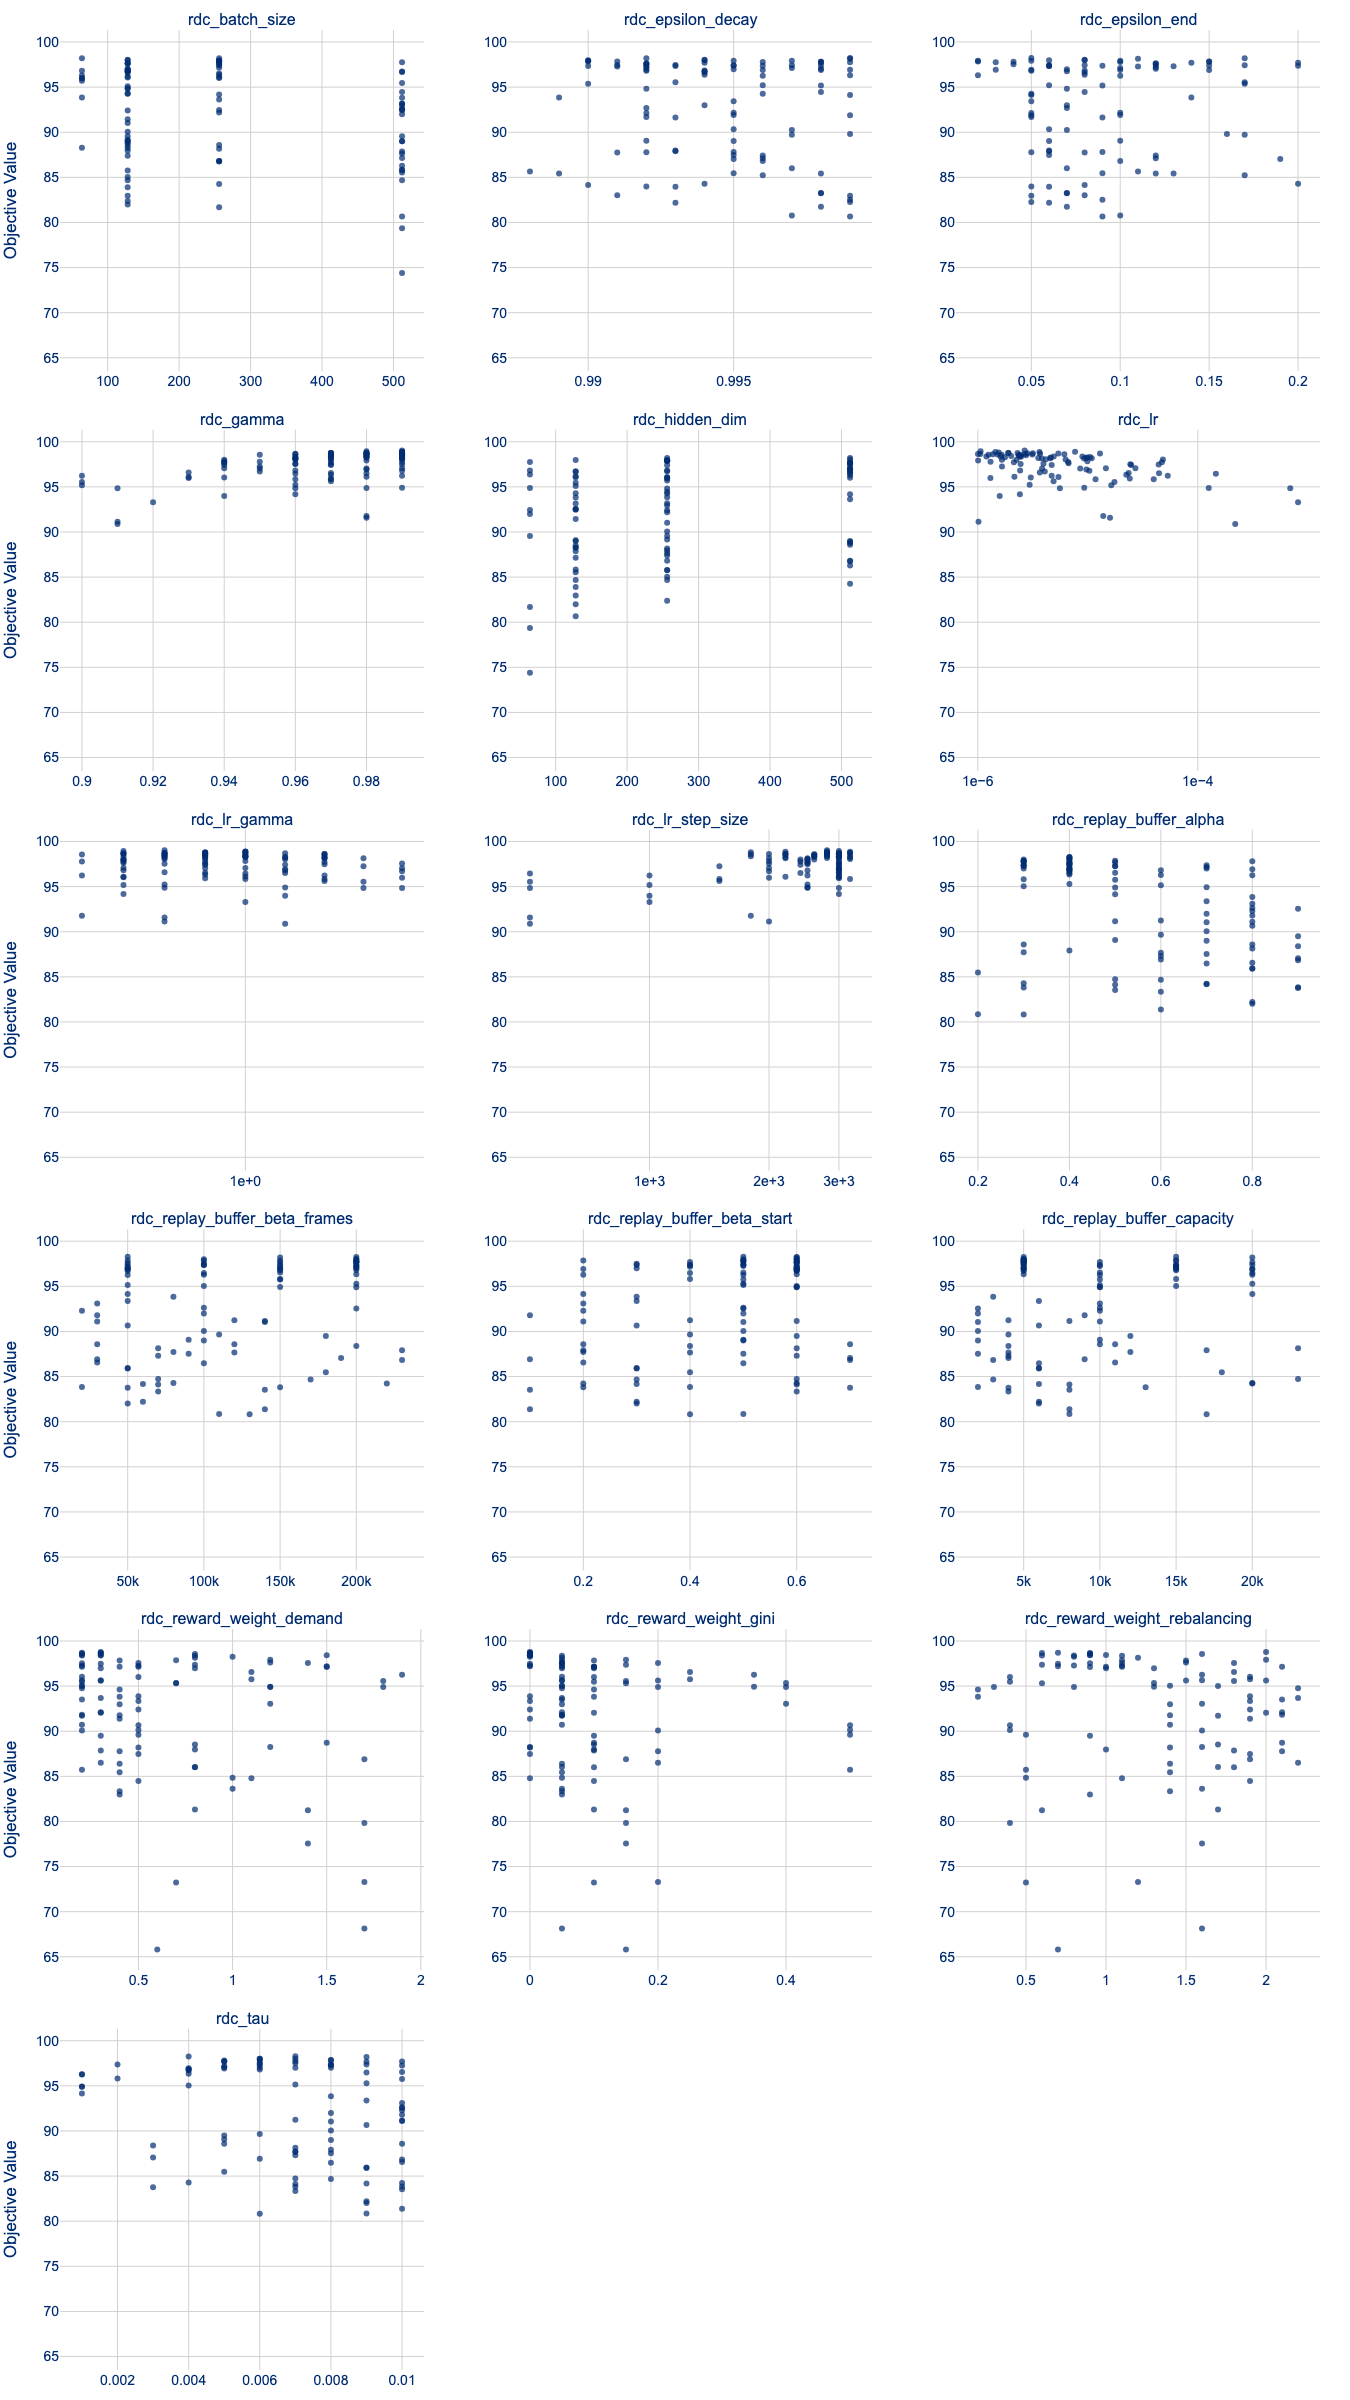
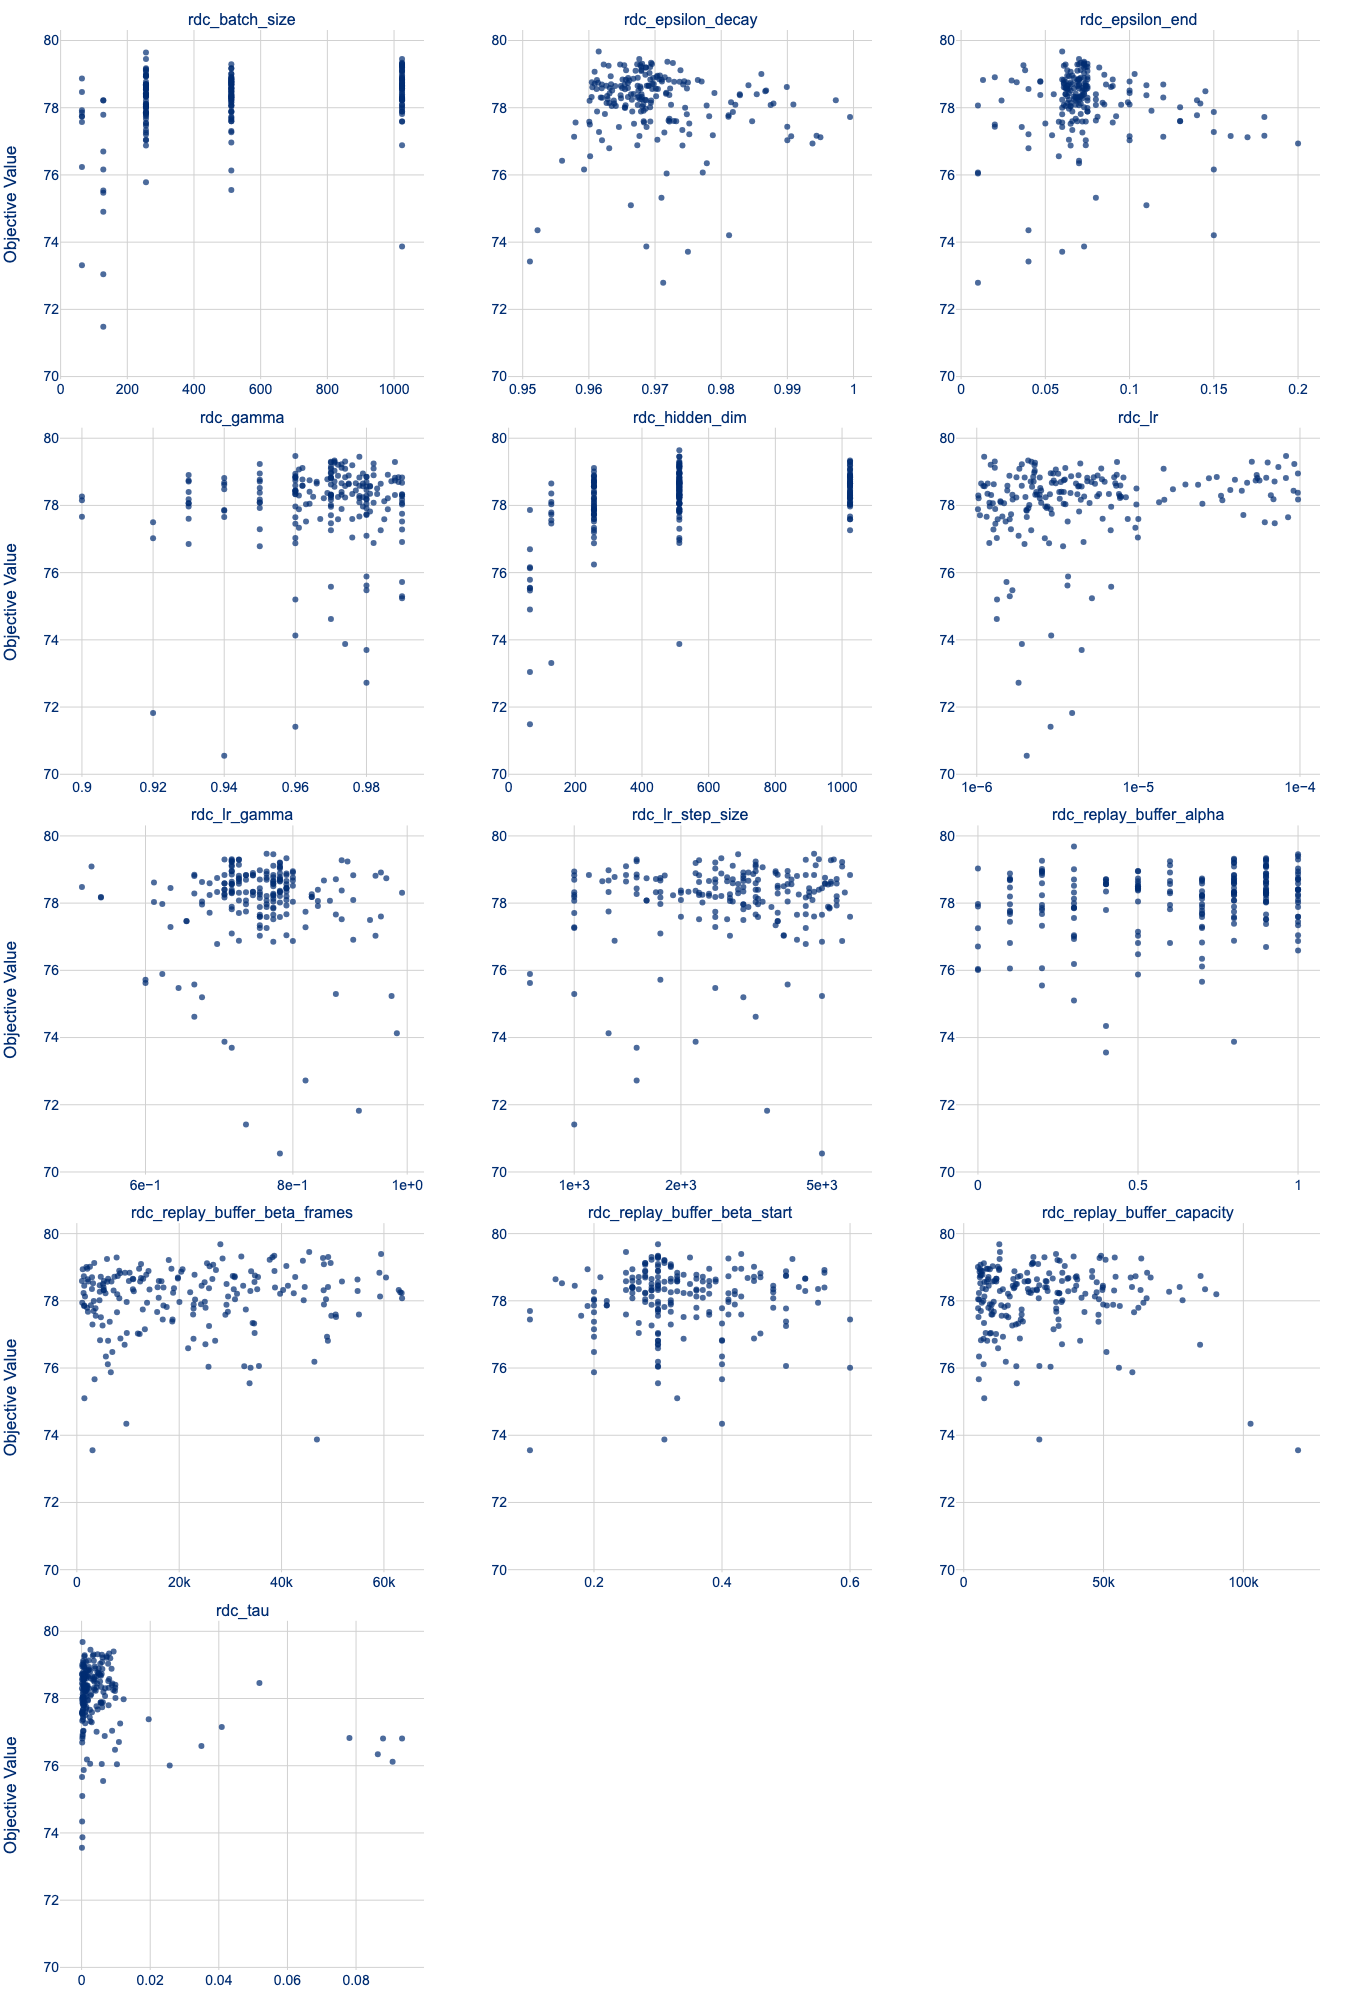
Update plots and optimal hyperparameters based on recent HO results

diff --git a/content/06_evaluation.tex b/content/06_evaluation.tex
@@ -73,7 +73,7 @@ The highest objective values can only be observed for decay rates of $0.99$ and 
 Even for high decay rates, the objective value fluctuates, which suggests that the \texttt{RDC\_epsilon\_decay} parameter is dependent on other critical parameters and only enables the possibility of an optimal performance.
 The trend of higher epsilon decay rates suggests a prolonged exploration phase for the RDC agent to capture the complex dynamics of the e-scooter sharing system.
 
-
+\todo{update paragraph describing the updated plots}
 \begin{figure}[H]
     \centering
     \includegraphics[width=\linewidth]{content/figures/RDC_focused_slice_plot.png}
@@ -81,7 +81,8 @@ The trend of higher epsilon decay rates suggests a prolonged exploration phase f
     \label{fig:ho-rdc-focused-slice}
 \end{figure}
 
-The resulting optimal hyperparameter configuration is presented in \autoref{tab:rdc_final_hyperparameters}. Detailed parameter descriptions are provided in the implementation chapter (see \autoref{tab:rdc_hyperparameters_description}), while the search spaces for each optimization round are defined in the appendix (\cref{tab:rdc_ho_first_round,tab:rdc_ho_second_round,tab:rdc_ho_final_round}).
+The resulting optimal hyperparameter configuration is presented in \autoref{tab:rdc_final_hyperparameters}.
+Detailed parameter descriptions are provided in the implementation chapter (see \autoref{tab:rdc_hyperparameters_description}), while the search spaces for each optimization round are defined in the appendix (\cref{tab:rdc_ho_first_round,tab:rdc_ho_second_round,tab:rdc_ho_final_round}).
 
 
 \begin{table}[H]
@@ -90,27 +91,27 @@ The resulting optimal hyperparameter configuration is presented in \autoref{tab:
         \toprule
         \textbf{Parameter} & \textbf{Summary Description} & \textbf{Final Value} \\
         \midrule
-        \texttt{RDC\_lr} & Initial learning rate & $1 \times 10^{-5}$ \\
-        \texttt{RDC\_lr\_step\_size} & LR decay step size & $1500$ \\
+        \texttt{RDC\_lr} & Initial learning rate & $1 \times 1.1^{-6}$ \\
+        \texttt{RDC\_lr\_step\_size} & LR decay step size & $30,000$ \\
         \texttt{RDC\_lr\_gamma} & LR decay factor & $0.9$ \\
-        \texttt{RDC\_gamma} & Discount factor & $0.926$\\
+        \texttt{RDC\_gamma} & Discount factor & $0.978$\\
         \midrule
-        \texttt{RDC\_hidden\_size} & Hidden layer neuron count & $256$ \\
-        \texttt{RDC\_batch\_size} & Minibatch size & $256$ \\
-        \texttt{RDC\_tau} & Target network soft update rate & $0.001$ \\
+        \texttt{RDC\_hidden\_size} & Hidden layer neuron count & $1024$ \\
+        \texttt{RDC\_batch\_size} & Minibatch size & $512$ \\
+        \texttt{RDC\_tau} & Target network soft update rate & $0.0026$ \\
         \midrule
-        \texttt{RDC\_rb\_capacity} & Replay buffer capacity & $10,000$\\
-        \texttt{RDC\_per\_alpha} & PER prioritization exponent ($\alpha$) & $0.8$\\
-        \texttt{RDC\_per\_beta\_start} & PER importance sampling start ($\beta_0$) & $0.3$\\
-        \texttt{RDC\_per\_beta\_frames} & PER $\beta$ annealing frames & $150,000$\\
+        \texttt{RDC\_rb\_capacity} & Replay buffer capacity & $13,000$\\
+        \texttt{RDC\_per\_alpha} & PER prioritization exponent ($\alpha$) & $1.0$\\
+        \texttt{RDC\_per\_beta\_start} & PER importance sampling start ($\beta_0$) & $0.25$\\
+        \texttt{RDC\_per\_beta\_frames} & PER $\beta$ annealing frames & $400,000$\\
         \midrule
         \texttt{RDC\_epsilon\_start} & Initial exploration rate ($\epsilon_{start}$) & $1.0$\\
-        \texttt{RDC\_epsilon\_end} & Final exploration rate ($\epsilon_{end}$) & $0.06$\\
-        \texttt{RDC\_epsilon\_decay} & Exploration rate decay factor & $0.999$\\
+        \texttt{RDC\_epsilon\_end} & Final exploration rate ($\epsilon_{end}$) & $0.07$\\
+        \texttt{RDC\_epsilon\_decay} & Exploration rate decay factor & $0.99997$\\
         \midrule
-        \texttt{RDC\_weight\_demand} & Satisfied demand weight & $1.1$ \\
-        \texttt{RDC\_weight\_cost} & Rebalancing cost weight & $1.1$ \\
-        \texttt{RDC\_weight\_gini} & Gini index penalty weight & $0.1$ \\
+        \texttt{RDC\_weight\_demand} & Satisfied demand weight & $7.0$ \\
+        \texttt{RDC\_weight\_cost} & Rebalancing cost weight & $0.2$ \\
+        \texttt{RDC\_weight\_gini} & Gini index penalty weight & $7.0$ \\
         \bottomrule
     \end{tabularx}
     \caption{Final optimized hyperparameter configuration for the RDC.}
@@ -161,7 +162,7 @@ The \texttt{UIC\_ent\_coef} that controls the agetnt's exlporation-exploitation 
 This suggests that the agent rather quickly finds a good policy that the agent tries to exploit fast instead of focusing on much exploration of the search space.
 This also means that only a tiny amount of entropy is needed to prevent the agent from getting stuck in suboptimal policies.
 
-
+\todo{update paragraph describing the updated plots}
 \begin{figure}[H]
     \centering
     \includegraphics[width=\linewidth]{content/figures/UIC_focused_slice_plot.png}
